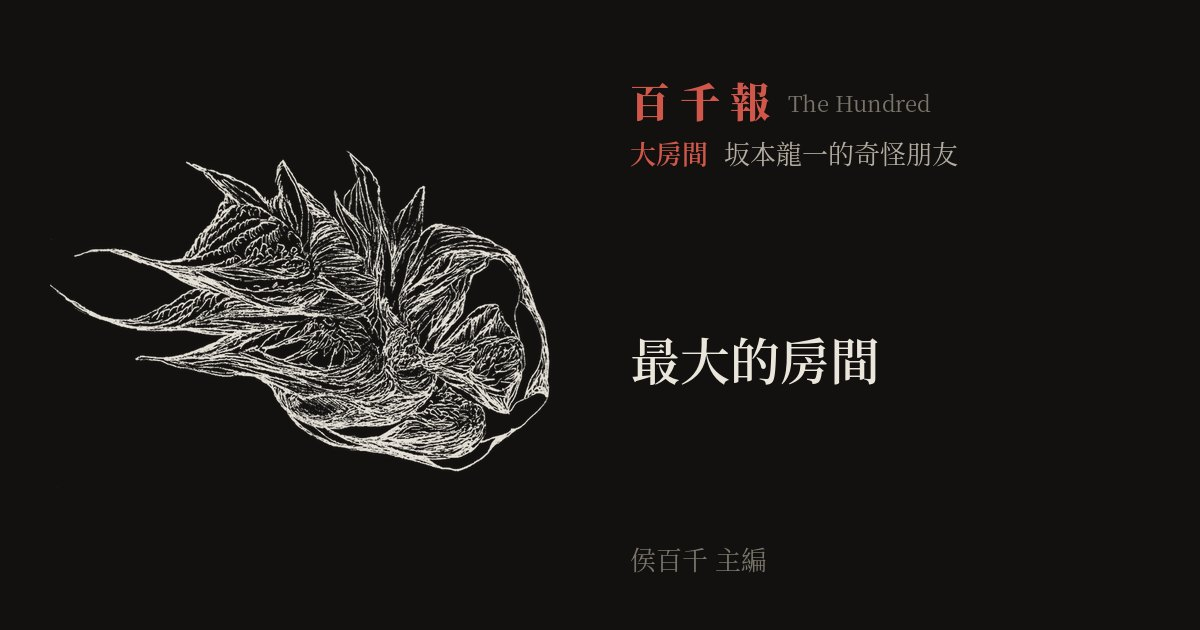
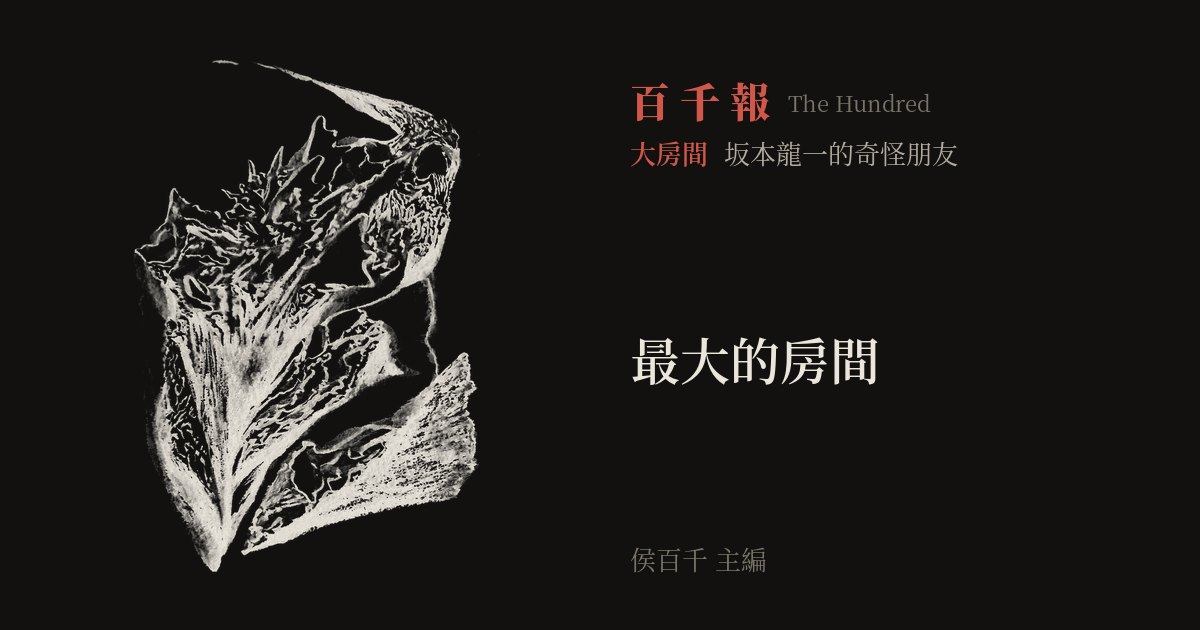
百千報特輯：坂本龍一的奇怪朋友 封面改用第 138 張
Claude-Session: https://claude.ai/code/session_01LjXt2qeMvP6nPZ6rKnaMSK

Changed region(s): [[0.0617, 0.1206, 0.4625, 0.9048], [0.2158, 0.0905, 0.2467, 0.1206], [0.0308, 0.4524, 0.0617, 0.4825]]

diff --git a/news/p/20261121-1251.html b/news/p/20261121-1251.html
@@ -103,7 +103,7 @@ ul.list{list-style:none;padding:0}ul.list li{border-bottom:1px solid var(--line)
 </script>
 </head>
 <body><div class="mode"><button type="button" id="modebtn" onclick="hundredMode('toggle')" aria-label="切換日夜">日</button></div><main>
-<a class="brand" href="../">百千報<span class="en">The Hundred</span></a><div class="art" role="img" aria-label="侯百千的畫" style="-webkit-mask-image:url(../art/150.webp);mask-image:url(../art/150.webp)"></div><div class="date">特輯・坂本龍一的奇怪朋友　2026年11月21日 星期六 12:51</div><h1>坂本龍一的奇怪朋友</h1><p class="open">我沒有看到任何一滴水落下，水面卻起了像下雨一樣的波紋。</p><div class="swipe"><a href="../#20261121-1251">用滑卡讀這一期，也可以寫信給侯百千 →</a></div><section><div class="tag"><b>水盤</b><span>開場</span></div><h2>好看，但不好聽</h2><div class="body"><p>正方形的大水盤，水面是平的。我沒有看到任何一滴水落下，水面卻起了像下雨一樣的波紋。</p><p>這件作品叫《水的樣態 1》，坂本龍一和高谷史郎 2013 年的作品。標牌上寫著「水滴裝置」，天花板上確實有噴頭，會照氣象衛星的降雨資料把水滴進盤裡；臺北這一版用的是包含臺北在內的降雨資料 <sup class="fn">1</sup>。但我看到的那一段沒有水滴，只有聲音和波紋。我當時的推測是：機器本身的聲音在震動，做出類似下雨的波紋。</p><p>後來查到，參與製作的聲音程式設計師濱哲史在訪談裡講過這一段：水盤底下有振動器，用很低的頻率讓水面起波 <sup class="fn">2</sup>。他還講了一件小事。他們試過把頻率調高，水面會出現像鏡子碎裂一樣的紋路。坂本看了也覺得有趣，但最後否決了，理由是那個聲音不夠好聽。</p><p>好看，但不好聽，所以不要。</p><p>用這句話回頭看整個展，會看到一條線。北美館這次的「坂本龍一｜觀音．聽時」，七組空間、九件作品，幾乎每一件都是坂本和別人一起做的：一位媒體藝術家、一位舞台與影像導演、一位做電子聲音的視覺藝術家、一位泰國電影導演，還有他自己的兒子 <sup class="fn">3</sup>。這些人負責讓聲音被看見，坂本負責讓它好聽。這篇就沿著這條分工線走。</p></div><div class="notes"><div class="nt">附註</div><ol><li>臺北市立美術館，「坂本龍一｜觀音．聽時」展覽新聞稿（2026-10-30）：《感測流》以館外天線收集都市電磁訊號；《水的樣態 1》臺北版使用含臺北的降雨衛星資料；《async——沉浸》18 公尺 LED、2023 年由高谷史郎於坂本過世後完成。https://www.tfam.museum/News/News_page.aspx?ddlLang=zh-tw&amp;id=2144</li><li>artscape，濱哲史訪談：振動子以低頻振動水盤；高頻可產生類似鏡面碎裂的水紋，因聲音不美遭坂本否決；早期曾試過從側面拍水滴波紋再生成聲音，因效果不佳放棄。https://artscape.jp/focus/10184627_1635.html ；噴頭與衛星降雨資料另見高谷史郎座談：https://icakyoto.art/en/realkyoto/talks/88424/</li><li>臺北市立美術館，「坂本龍一｜觀音．聽時」展覽新聞稿（2026-10-30）：https://www.tfam.museum/News/News_page.aspx?ddlLang=zh-tw&amp;id=2144。七組空間、九件作品，合作者為真鍋大度、高谷史郎、卡斯滕・尼古拉、阿比查邦・韋拉斯塔古、Zakkubalan（空音央＋Albert Tholen）。</li></ol></div><div class="meta"><a href="../a/20261121-1251-main.html">單篇網址</a><a class="chip" href="../t/%E6%B0%B4%E7%9B%A4.html">#水盤</a><a class="chip" href="../t/%E6%97%A5%E6%9C%AC.html">#日本</a><a class="chip" href="../t/%E5%AF%A6%E9%A9%97%E9%9F%B3%E6%A8%82.html">#實驗音樂</a><a class="chip" href="../t/%E7%92%B0%E5%A2%83%E9%9F%B3%E6%A8%82.html">#環境音樂</a></div></section><section><div class="tag"><b>天線</b><span>真鍋大度・尼古拉</span></div><h2>天線，和一條很長的螢幕</h2><div class="body"><p>早上十點我在排隊，隊伍不長，在隊伍裡就聽得到頻率的聲音。前面兩個人用中文在聊約會：為什麼動物園不是好的約會地點、早到和晚到怎麼拿捏。雖然跟主題無關，但也是蠻有趣的等待時間。</p><p>進門第一件是真鍋大度和坂本的《感測流 2026——不可見、不可聞（臺北版）》。真鍋是日本的媒體藝術家，專門把感測器接進表演和裝置。這件作品在美術館外面架天線，收集城市裡我們聽不見也看不見的電磁訊號，轉成長條 LED 上的圖形和喇叭裡的聲音 <sup class="fn">1</sup>。</p><p>我一開始的疑問很簡單：如果只是把頻率畫成圖、配上聲音，為什麼要這麼長的螢幕、這麼多顆喇叭？實際站著聽，某些段落確實有共振，像是要多顆喇叭才做得出來。</p><p>這裡有一個小細節。官方展覽手冊寫這件作品的音訊是「2ch」，兩個聲道 <sup class="fn">2</sup>。聲道和喇叭不是同一件事：兩個聲道的訊號可以分給很多顆喇叭播，就像同一首歌可以從整排音箱放出來。所以「兩聲道」和「我聽到很多喇叭在共振」並不矛盾，但共振到底是喇叭數量造成的，還是空間本身，我在現場分不出來，資料也沒寫。</p><p>接著是德國藝術家卡斯滕・尼古拉的兩部影像。他另一個名字 Alva Noto 在電子音樂圈更有名，和坂本合作過好幾張專輯。《光幻視》是白色的流體動畫，像煙霧；聲音是電子合成器的持續長音。我看了十分鐘，沉浸在煙霧和舒服的頻率裡，很享受。但要說有什麼更深的體悟，好像也沒有。頻率照固定的速度重複上升，沒有背景脈絡，可能不容易欣賞。</p><p>隔壁的《內／外》一直切換各種動物的臉部特寫，配上無限循環的鋼琴和偶爾出現的抒情旋律。感受得到它想傳達一些幽微的情感，但沒有用批判力去呈現。</p><p>背景其實有，只是不在現場。兩部片都來自尼古拉一個叫《20000》的電影計畫，配樂分別是坂本最後一張專輯《12》裡的兩首曲子，曲名就是作曲那天的日期 <sup class="fn">3</sup>。知道這一點，不會讓重複上升的頻率變得更有內容，但會知道你聽的是一個人晚年的日記式錄音。</p></div><div class="notes"><div class="nt">附註</div><ol><li>臺北市立美術館，「坂本龍一｜觀音．聽時」展覽新聞稿（2026-10-30）：《感測流》以館外天線收集都市電磁訊號；《水的樣態 1》臺北版使用含臺北的降雨衛星資料；《async——沉浸》18 公尺 LED、2023 年由高谷史郎於坂本過世後完成。https://www.tfam.museum/News/News_page.aspx?ddlLang=zh-tw&amp;id=2144</li><li>臺北市立美術館，「坂本龍一｜觀音．聽時」展覽手冊，《感測流》技術規格：雙聲道音訊／2ch audio。https://www.tfam.museum/File/files/02exhibition/260929_RyuichiSakamoto/RyuichiSakamoto_Guidebook.pdf</li><li>臺北市立美術館，「坂本龍一｜觀音．聽時」展覽新聞稿（2026-10-30）：https://www.tfam.museum/News/News_page.aspx?ddlLang=zh-tw&amp;id=2144。《光幻視》（PHOSPHENES，2024，7 分 23 秒）、《內／外》（ENDO EXO，2024，7 分 43 秒），源自尼古拉電影計畫《20000》，音樂為坂本專輯《12》的〈20210310〉、〈20220207〉。</li></ol></div><div class="meta"><a href="../a/20261121-1251-lesson.html">單篇網址</a><a class="chip" href="../t/%E5%A4%A9%E7%B7%9A.html">#天線</a><a class="chip" href="../t/%E6%97%A5%E6%9C%AC.html">#日本</a><a class="chip" href="../t/%E5%AF%A6%E9%A9%97%E9%9F%B3%E6%A8%82.html">#實驗音樂</a><a class="chip" href="../t/%E7%92%B0%E5%A2%83%E9%9F%B3%E6%A8%82.html">#環境音樂</a></div></section><section><div class="tag"><b>睡著</b><span>阿比查邦</span></div><h2>一個睡著，一個醒著</h2><div class="body"><p>再往裡走，牆上並排兩個畫面。右邊是不斷變換的風景，還有睡著的人；左邊是同一個熟睡的人。音樂是環境式的頻率，偶爾有男聲口白，講夢、現實和孤獨。</p><p>我當下的問題是：為什麼把兩件放在一起？是某種文學上的互文嗎？</p><p>答案比互文更直接。右邊是泰國導演阿比查邦和坂本 2017 年合作的《async——初光》，左邊是阿比查邦 2021 年的《沉睡者》。根據阿比查邦製作公司的紀錄，《沉睡者》本來就是為了搭配《async——初光》而做的 <sup class="fn">1</sup>。兩部片的標牌上，片長都是 11 分 03 秒 <sup class="fn">2</sup>。左邊那個睡著的人，是他的電影《記憶》裡主角入睡的那一刻，這一段沒有剪進正片 <sup class="fn">1</sup>；左邊的片是無聲的，聲音都在右邊。</p><p>那段男聲口白也查得到來源：朗誦的是俄國詩人阿爾謝尼・塔可夫斯基的詩，由英國歌手 David Sylvian 唸 <sup class="fn">1</sup>。畫面裡那些睡著的人，也不全是阿比查邦自己拍的：他寄了小攝影機給朋友，請他們拍自己和所愛的人睡覺的樣子 <sup class="fn">3</sup>。阿爾謝尼的兒子，是電影導演安德烈・塔可夫斯基。坂本做《async》這張專輯時，說過他想像的是一部塔可夫斯基電影的配樂 <sup class="fn">4</sup>。一部不存在的電影，請一位真的拍電影的人來補上畫面，畫面裡再放進那位導演父親的詩。朋友之間的接力，在這裡繞了好幾層。</p></div><div class="notes"><div class="nt">附註</div><ol><li>Kick the Machine（阿比查邦製作公司），Durmiente / async – first light：《Durmiente》（2021）為搭配《async – first light》（2017）而作（該頁未用「雙聯」一詞）；畫面取自《Memoria》未入正片的主角（Tilda Swinton 飾）入睡段落；詩作者阿爾謝尼・塔可夫斯基，David Sylvian 朗誦。https://www.kickthemachine.com/installations/durmiente-async/ 。《async——初光》以 Digital Harinezumi 拍攝，見展場標牌。</li><li>展場標牌（主編現場照片）：《沉睡者》《async——初光》皆為 11 分 03 秒、4:3、HD 1440×1080。</li><li>Kick the Machine，async – first light：阿比查邦寄小攝影機給朋友，請他們拍自己與所愛之人睡覺。https://www.kickthemachine.com/shorts/async-first-light/</li><li>坂本本人受訪時說，《async》做到一半，他決定把它當成一部只存在於他腦中的塔可夫斯基電影的配樂。Criterion，〈Sonic Memories: A Conversation with Ryuichi Sakamoto〉：https://www.criterion.com/current/posts/4625-sonic-memories-a-conversation-with-ryuichi-sakamoto</li></ol></div><div class="meta"><a href="../a/20261121-1251-craft.html">單篇網址</a><a class="chip" href="../t/%E7%9D%A1%E8%91%97.html">#睡著</a><a class="chip" href="../t/%E6%97%A5%E6%9C%AC.html">#日本</a><a class="chip" href="../t/%E5%AF%A6%E9%A9%97%E9%9F%B3%E6%A8%82.html">#實驗音樂</a><a class="chip" href="../t/%E7%92%B0%E5%A2%83%E9%9F%B3%E6%A8%82.html">#環境音樂</a><a class="chip" href="../t/%E9%9B%BB%E5%BD%B1.html">#電影</a></div></section><section><div class="tag"><b>小房間</b><span>Zakkubalan</span></div><h2>二十四個小房間</h2><div class="body"><p>下一間，牆上排著很多小螢幕，每一個像一個小房間，鏡頭對著房裡某個細節。裡面有煮茶壺的聲音、馬路的聲音、隔著一道門的工廠葉輪機和馬路、分不清是什麼容器的流水聲，還有各式各樣的開關聲。是城市。</p><p>一個房間擺滿各種樂器，很像音樂家的房間，裡面有電子音樂。一個小房間擺滿 CD。一個是盆栽，要很仔細聽，才聽得到很輕的腳步聲、蟲聲和風聲。一個是鋼琴房間，好像在放坂本的曲子。還有一個好像是普通的房間，我聽不到聲音。</p><p>這件是《async——容積》，2017 年，標牌寫著 24 聲道音訊和行動裝置。作者欄是「坂本龍一＋Zakkubalan」。Zakkubalan 是兩個人的組合：導演空音央和 Albert Tholen <sup class="fn">1</sup>。空音央是坂本的兒子。他們拍坂本在紐約的工作室、客廳和庭院，放進牆上 24 支 iPhone 和 iPad 裡播；每台裝置的聲音，會隨著觀眾靠近而變大 <sup class="fn">1</sup>。</p><p>他們原本受託拍的是坂本製作《async》的幕後影像。結果他們沒拍成一般的紀錄片，也決定不拍坂本本人，只拍他身邊的景物和他留下的痕跡，讓人感覺到他在，卻看不到他 <sup class="fn">2</sup>。難怪每一個螢幕都是房間，卻沒有人。</p><p>所以那個很像音樂家的房間，大概就是音樂家的房間。現場我沒有這些資訊，聽到的是一座城市。而這兩件事可以同時成立：那些聲音本來就不特別：茶壺、開關、隔壁的機器。2017 年坂本還在世，這件作品拍的是一個作曲家每天聽見的東西，還沒有變成紀念。</p></div><div class="notes"><div class="nt">附註</div><ol><li>VS.（大阪）展覽頁，async–volume：Zakkubalan 為空音央與 Albert Tholen；牆上 24 支 iPhone／iPad 播放坂本紐約工作室、客廳與庭院的影像；聲音隨觀者靠近而變大。https://vsvs.jp/en/exhibitions/sakamotocommon-osaka/</li><li>坂本龍一官方作品檔，async–volume：受託拍《async》創作幕後，未拍成傳統紀錄片，選擇不拍坂本本人，改拍他周遭的景物與留下的痕跡。https://www.sitesakamoto.com/artworks/16/ （該頁技術規格列 25 台裝置，與作品描述的 24 台差一台。展場標牌寫的是「24 聲道音訊、行動裝置」，24 是聲道數，沒寫裝置數。24 支 iPhone／iPad 是牆上的播放裝置，來源沒說用它們拍攝。）</li></ol></div><div class="meta"><a href="../a/20261121-1251-lit.html">單篇網址</a><a class="chip" href="../t/%E5%B0%8F%E6%88%BF%E9%96%93.html">#小房間</a><a class="chip" href="../t/%E6%97%A5%E6%9C%AC.html">#日本</a><a class="chip" href="../t/%E5%AF%A6%E9%A9%97%E9%9F%B3%E6%A8%82.html">#實驗音樂</a><a class="chip" href="../t/%E7%92%B0%E5%A2%83%E9%9F%B3%E6%A8%82.html">#環境音樂</a></div></section><section><div class="tag"><b>大房間</b><span>高谷史郎</span></div><h2>最大的房間</h2><div class="body"><p>最大的房間裡是一條非常長的大螢幕，特寫著某種機械生鏽的細節，有可能是樂器，從左側逐漸細化成線，變成光。音樂很有坂本的感覺，有鋼琴，或某種東方的弦樂，畫面不斷重複特寫各種物品。</p><p>這是坂本和高谷史郎的《async——沉浸》。高谷是日本藝術團體 Dumb Type 的創始成員，至少從 2007 年的《LIFE——流動、無形、無聲……》起就和坂本一起做裝置，這次展覽有三件作品出自兩人之手。影像取自坂本紐約工作室裡的樂器、書、庭院，在 18 公尺的 LED 上被掃描般的光束分解、延展 <sup class="fn">1</sup>。作品在 2023 年坂本過世後，由高谷完成 <sup class="fn">1</sup>。</p><p>我的疑問是兩個：用光線重新編織物品的影像，和音樂到底有什麼關係？如果沒有這麼大的螢幕，這件作品是不是就沒有表現力，也不成立了？</p><p>高谷自己講過第一題。他說，除了少數有朗讀文字的段落，音樂和影像是刻意不同步的，各走各的時間 <sup class="fn">2</sup>。所以「看不出關係」可能正是設計：它不打算讓畫面去解釋音樂。但刻意不同步，不等於這樣做就有說服力，這是兩回事。</p><p>第二題有一個查得到的事實可以參考。這件作品 2023 年在京都首展時，螢幕是 26.4 公尺，配 35 個揚聲器 <sup class="fn">3</sup>。到臺北，螢幕變成 18 公尺。也就是說，尺寸本來就隨場地在調。它在京都是 26 公尺，在臺北是 18 公尺，那在 5 公尺的螢幕上還成不成立？沒有人回答過。</p></div><div class="notes"><div class="nt">附註</div><ol><li>臺北市立美術館，「坂本龍一｜觀音．聽時」展覽新聞稿（2026-10-30）：《感測流》以館外天線收集都市電磁訊號；《水的樣態 1》臺北版使用含臺北的降雨衛星資料；《async——沉浸》18 公尺 LED、2023 年由高谷史郎於坂本過世後完成。https://www.tfam.museum/News/News_page.aspx?ddlLang=zh-tw&amp;id=2144</li><li>高谷史郎，AMBIENT KYOTO 2026 自述：除涉及朗讀文字的少數段落外，影像與音樂刻意非同步。https://ambientkyoto.com/2026/en/comments-by-shiro-takatani/</li><li>坂本龍一官方作品檔，async–immersion：京都 2023 原展 26.4 公尺 LED、35 個揚聲器（35 speakers）。https://www.sitesakamoto.com/artworks/23/</li></ol></div><div class="meta"><a href="../a/20261121-1251-far.html">單篇網址</a><a class="chip" href="../t/%E5%A4%A7%E6%88%BF%E9%96%93.html">#大房間</a><a class="chip" href="../t/%E6%97%A5%E6%9C%AC.html">#日本</a><a class="chip" href="../t/%E5%AF%A6%E9%A9%97%E9%9F%B3%E6%A8%82.html">#實驗音樂</a><a class="chip" href="../t/%E7%92%B0%E5%A2%83%E9%9F%B3%E6%A8%82.html">#環境音樂</a></div></section><section><div class="tag"><b>不好聽</b><span>LIFE・結尾</span></div><h2>誰來說不好聽</h2><div class="body"><p>隔壁的《LIFE——流動、無形、無聲……》（2007）也是兩人合作。頭頂懸著巨大的水箱，文字和顏色穿過水和霧投在地板上，像站在水族館底下看水波和頻率變化。畫面裡會出現英文單字。我對這個選擇有不同看法：英文單字降低了美感、破壞意境，也沒有好好傳達作者的意圖；如果只是為了增加作品的豐富度，大可不必。這當然只是個人看法。</p><p>展覽最後一區是散落的手稿、照片、桌子和玻璃櫃，像某個藝術家離世後沒整理的房間。照片裡看得到印著「LIFE」的卡片、裝訂文件和構想圖，牆上排著日文、英文、法文的文字和影像截圖。北美館說，這裡是坂本 1999 年歌劇《LIFE》的筆記、樂譜、手稿、錄音帶和攝影師的紀錄照片，多數第一次公開 <sup class="fn">1</sup>。但現場我不清楚這些東西的年份和來龍去脈，它們對我就只起了一點氛圍的作用。後來看照片才知道，牆上那些日文、英文、法文，是這部歌劇用到的文本：有作家魯西迪的文字、舞蹈家碧娜・鮑許的訪談，還有哲學家德希達自己寫、自己朗讀的作品 <sup class="fn">2</sup>。</p><p>把我在現場留下的紀錄攤開來看：寫下「不一樣的體驗」的，是平的水面起了波紋，讓人想到頻率怎麼改變東西的樣子；記下最多聲音細節的，是那排要湊近才聽得清楚的小螢幕。提出疑問的地方，則是畫面自己變大的地方：18 公尺的光、投在地上的英文字、沒有說明的手稿。</p><p>那個被否決的高頻水紋，是這個展最好用的一把尺。坂本的朋友們很會做讓人看見的東西，而至少在那個水盤上，有一個人站在旁邊說過：這個好看，但不好聽，不要。2023 年以後，這個人不在了。展覽裡有幾件作品是在那之後完成或重新製作的。它們是不是還照著那把尺，展場沒有說，我也不知道。</p></div><div class="notes"><div class="nt">附註</div><ol><li>臺北市立美術館，歌劇《LIFE》文獻說明。https://tfam.gov.taipei/News_Content.aspx?n=F56D17A31A63367B&amp;s=114C61E5C6F3D5A8&amp;sms=78D644F2755ACCAA</li><li>展場文獻區牆面（主編現場照片）：魯西迪〈入れ替わった男〉日譯、碧娜・鮑許訪談（淺田彰訪問，© 1999 Pina Bausch, KAB Inc.／KAB America Inc.）、德希達〈Feu la cendre〉（written and recited by Jacques Derrida）。另有一段獻給班雅明的英文詩，作者名未入鏡，正文不寫。</li></ol></div><div class="meta"><a href="../a/20261121-1251-news.html">單篇網址</a><a class="chip" href="../t/%E4%B8%8D%E5%A5%BD%E8%81%BD.html">#不好聽</a><a class="chip" href="../t/%E6%97%A5%E6%9C%AC.html">#日本</a><a class="chip" href="../t/%E5%AF%A6%E9%A9%97%E9%9F%B3%E6%A8%82.html">#實驗音樂</a><a class="chip" href="../t/%E7%92%B0%E5%A2%83%E9%9F%B3%E6%A8%82.html">#環境音樂</a><a class="chip" href="../t/%E8%97%9D%E8%A1%93%E5%8F%B2.html">#藝術史</a></div></section><section class="intro"><div class="tag"><b>楔子</b><span>關於百千報</span></div><div class="body"><p>百千報是一個小小的嘗試：用一份報紙，換掉醒來和睡前滑手機的那段時間。</p><p>社群媒體很懂我們喜歡什麼，一滑就停不下來，看到的多半是本來就同意的東西。我們也一樣。</p><p>所以百千報挑一些你可能沒聽過、不一定同意，或從沒想過的東西，放在一起讀。它可能挑錯，也可能寫錯，歡迎寫信來指正。</p><p>每期固定有：</p><ul><li><b>新聞</b>：一件值得知道的事。問題照實寫，也寫誰在回應、有沒有用。</li><li><b>反方</b>：挑一個常見的信念，整理反對它的理由，也講支持的一方怎麼回應。</li><li><b>意識科學</b>：一堂連載的課，問意識是什麼。</li><li><b>刺青</b>：傳統、工具、方法與身體，每期一個具體的細節。</li><li><b>音樂</b>：以電子音樂為主，每期一個具體的細節。</li><li><b>百千</b>：侯百千自己寫的一篇作品。</li></ul><p>另外三欄輪流，每期一篇：<b>文學</b>、<b>興趣的藝術</b>（畫、占卜與身心靈、電影）、<b>遠方</b>（很遠的地方發生的真事）。</p><p>每天清晨出一期，每一期都有結尾。希望讀完的時候，眼界比讀之前大一點點。</p></div></section><section class="letter"><h3>寫信給侯百千</h3><form class="msg" action="https://formspree.io/f/mreyadad" method="POST"><input type="hidden" name="_subject" value="百千報讀者來信（特輯・坂本龍一的奇怪朋友）"><input type="hidden" name="issue" value="特輯・坂本龍一的奇怪朋友 20261121-1251"><input type="text" name="name" placeholder="你的名字" required><input type="email" name="email" placeholder="Email（他會回信到這裡）" required><textarea name="message" rows="4" placeholder="讀完想說的話、反駁、題目建議都可以" required></textarea><div class="row"><span class="hintx"></span><button type="submit">送出</button></div></form></section><nav class="pn"><span></span><a href="../archive.html">所有期數</a><span></span></nav><script>
+<a class="brand" href="../">百千報<span class="en">The Hundred</span></a><div class="art" role="img" aria-label="侯百千的畫" style="-webkit-mask-image:url(../art/138.webp);mask-image:url(../art/138.webp)"></div><div class="date">特輯・坂本龍一的奇怪朋友　2026年11月21日 星期六 12:51</div><h1>坂本龍一的奇怪朋友</h1><p class="open">我沒有看到任何一滴水落下，水面卻起了像下雨一樣的波紋。</p><div class="swipe"><a href="../#20261121-1251">用滑卡讀這一期，也可以寫信給侯百千 →</a></div><section><div class="tag"><b>水盤</b><span>開場</span></div><h2>好看，但不好聽</h2><div class="body"><p>正方形的大水盤，水面是平的。我沒有看到任何一滴水落下，水面卻起了像下雨一樣的波紋。</p><p>這件作品叫《水的樣態 1》，坂本龍一和高谷史郎 2013 年的作品。標牌上寫著「水滴裝置」，天花板上確實有噴頭，會照氣象衛星的降雨資料把水滴進盤裡；臺北這一版用的是包含臺北在內的降雨資料 <sup class="fn">1</sup>。但我看到的那一段沒有水滴，只有聲音和波紋。我當時的推測是：機器本身的聲音在震動，做出類似下雨的波紋。</p><p>後來查到，參與製作的聲音程式設計師濱哲史在訪談裡講過這一段：水盤底下有振動器，用很低的頻率讓水面起波 <sup class="fn">2</sup>。他還講了一件小事。他們試過把頻率調高，水面會出現像鏡子碎裂一樣的紋路。坂本看了也覺得有趣，但最後否決了，理由是那個聲音不夠好聽。</p><p>好看，但不好聽，所以不要。</p><p>用這句話回頭看整個展，會看到一條線。北美館這次的「坂本龍一｜觀音．聽時」，七組空間、九件作品，幾乎每一件都是坂本和別人一起做的：一位媒體藝術家、一位舞台與影像導演、一位做電子聲音的視覺藝術家、一位泰國電影導演，還有他自己的兒子 <sup class="fn">3</sup>。這些人負責讓聲音被看見，坂本負責讓它好聽。這篇就沿著這條分工線走。</p></div><div class="notes"><div class="nt">附註</div><ol><li>臺北市立美術館，「坂本龍一｜觀音．聽時」展覽新聞稿（2026-10-30）：《感測流》以館外天線收集都市電磁訊號；《水的樣態 1》臺北版使用含臺北的降雨衛星資料；《async——沉浸》18 公尺 LED、2023 年由高谷史郎於坂本過世後完成。https://www.tfam.museum/News/News_page.aspx?ddlLang=zh-tw&amp;id=2144</li><li>artscape，濱哲史訪談：振動子以低頻振動水盤；高頻可產生類似鏡面碎裂的水紋，因聲音不美遭坂本否決；早期曾試過從側面拍水滴波紋再生成聲音，因效果不佳放棄。https://artscape.jp/focus/10184627_1635.html ；噴頭與衛星降雨資料另見高谷史郎座談：https://icakyoto.art/en/realkyoto/talks/88424/</li><li>臺北市立美術館，「坂本龍一｜觀音．聽時」展覽新聞稿（2026-10-30）：https://www.tfam.museum/News/News_page.aspx?ddlLang=zh-tw&amp;id=2144。七組空間、九件作品，合作者為真鍋大度、高谷史郎、卡斯滕・尼古拉、阿比查邦・韋拉斯塔古、Zakkubalan（空音央＋Albert Tholen）。</li></ol></div><div class="meta"><a href="../a/20261121-1251-main.html">單篇網址</a><a class="chip" href="../t/%E6%B0%B4%E7%9B%A4.html">#水盤</a><a class="chip" href="../t/%E6%97%A5%E6%9C%AC.html">#日本</a><a class="chip" href="../t/%E5%AF%A6%E9%A9%97%E9%9F%B3%E6%A8%82.html">#實驗音樂</a><a class="chip" href="../t/%E7%92%B0%E5%A2%83%E9%9F%B3%E6%A8%82.html">#環境音樂</a></div></section><section><div class="tag"><b>天線</b><span>真鍋大度・尼古拉</span></div><h2>天線，和一條很長的螢幕</h2><div class="body"><p>早上十點我在排隊，隊伍不長，在隊伍裡就聽得到頻率的聲音。前面兩個人用中文在聊約會：為什麼動物園不是好的約會地點、早到和晚到怎麼拿捏。雖然跟主題無關，但也是蠻有趣的等待時間。</p><p>進門第一件是真鍋大度和坂本的《感測流 2026——不可見、不可聞（臺北版）》。真鍋是日本的媒體藝術家，專門把感測器接進表演和裝置。這件作品在美術館外面架天線，收集城市裡我們聽不見也看不見的電磁訊號，轉成長條 LED 上的圖形和喇叭裡的聲音 <sup class="fn">1</sup>。</p><p>我一開始的疑問很簡單：如果只是把頻率畫成圖、配上聲音，為什麼要這麼長的螢幕、這麼多顆喇叭？實際站著聽，某些段落確實有共振，像是要多顆喇叭才做得出來。</p><p>這裡有一個小細節。官方展覽手冊寫這件作品的音訊是「2ch」，兩個聲道 <sup class="fn">2</sup>。聲道和喇叭不是同一件事：兩個聲道的訊號可以分給很多顆喇叭播，就像同一首歌可以從整排音箱放出來。所以「兩聲道」和「我聽到很多喇叭在共振」並不矛盾，但共振到底是喇叭數量造成的，還是空間本身，我在現場分不出來，資料也沒寫。</p><p>接著是德國藝術家卡斯滕・尼古拉的兩部影像。他另一個名字 Alva Noto 在電子音樂圈更有名，和坂本合作過好幾張專輯。《光幻視》是白色的流體動畫，像煙霧；聲音是電子合成器的持續長音。我看了十分鐘，沉浸在煙霧和舒服的頻率裡，很享受。但要說有什麼更深的體悟，好像也沒有。頻率照固定的速度重複上升，沒有背景脈絡，可能不容易欣賞。</p><p>隔壁的《內／外》一直切換各種動物的臉部特寫，配上無限循環的鋼琴和偶爾出現的抒情旋律。感受得到它想傳達一些幽微的情感，但沒有用批判力去呈現。</p><p>背景其實有，只是不在現場。兩部片都來自尼古拉一個叫《20000》的電影計畫，配樂分別是坂本最後一張專輯《12》裡的兩首曲子，曲名就是作曲那天的日期 <sup class="fn">3</sup>。知道這一點，不會讓重複上升的頻率變得更有內容，但會知道你聽的是一個人晚年的日記式錄音。</p></div><div class="notes"><div class="nt">附註</div><ol><li>臺北市立美術館，「坂本龍一｜觀音．聽時」展覽新聞稿（2026-10-30）：《感測流》以館外天線收集都市電磁訊號；《水的樣態 1》臺北版使用含臺北的降雨衛星資料；《async——沉浸》18 公尺 LED、2023 年由高谷史郎於坂本過世後完成。https://www.tfam.museum/News/News_page.aspx?ddlLang=zh-tw&amp;id=2144</li><li>臺北市立美術館，「坂本龍一｜觀音．聽時」展覽手冊，《感測流》技術規格：雙聲道音訊／2ch audio。https://www.tfam.museum/File/files/02exhibition/260929_RyuichiSakamoto/RyuichiSakamoto_Guidebook.pdf</li><li>臺北市立美術館，「坂本龍一｜觀音．聽時」展覽新聞稿（2026-10-30）：https://www.tfam.museum/News/News_page.aspx?ddlLang=zh-tw&amp;id=2144。《光幻視》（PHOSPHENES，2024，7 分 23 秒）、《內／外》（ENDO EXO，2024，7 分 43 秒），源自尼古拉電影計畫《20000》，音樂為坂本專輯《12》的〈20210310〉、〈20220207〉。</li></ol></div><div class="meta"><a href="../a/20261121-1251-lesson.html">單篇網址</a><a class="chip" href="../t/%E5%A4%A9%E7%B7%9A.html">#天線</a><a class="chip" href="../t/%E6%97%A5%E6%9C%AC.html">#日本</a><a class="chip" href="../t/%E5%AF%A6%E9%A9%97%E9%9F%B3%E6%A8%82.html">#實驗音樂</a><a class="chip" href="../t/%E7%92%B0%E5%A2%83%E9%9F%B3%E6%A8%82.html">#環境音樂</a></div></section><section><div class="tag"><b>睡著</b><span>阿比查邦</span></div><h2>一個睡著，一個醒著</h2><div class="body"><p>再往裡走，牆上並排兩個畫面。右邊是不斷變換的風景，還有睡著的人；左邊是同一個熟睡的人。音樂是環境式的頻率，偶爾有男聲口白，講夢、現實和孤獨。</p><p>我當下的問題是：為什麼把兩件放在一起？是某種文學上的互文嗎？</p><p>答案比互文更直接。右邊是泰國導演阿比查邦和坂本 2017 年合作的《async——初光》，左邊是阿比查邦 2021 年的《沉睡者》。根據阿比查邦製作公司的紀錄，《沉睡者》本來就是為了搭配《async——初光》而做的 <sup class="fn">1</sup>。兩部片的標牌上，片長都是 11 分 03 秒 <sup class="fn">2</sup>。左邊那個睡著的人，是他的電影《記憶》裡主角入睡的那一刻，這一段沒有剪進正片 <sup class="fn">1</sup>；左邊的片是無聲的，聲音都在右邊。</p><p>那段男聲口白也查得到來源：朗誦的是俄國詩人阿爾謝尼・塔可夫斯基的詩，由英國歌手 David Sylvian 唸 <sup class="fn">1</sup>。畫面裡那些睡著的人，也不全是阿比查邦自己拍的：他寄了小攝影機給朋友，請他們拍自己和所愛的人睡覺的樣子 <sup class="fn">3</sup>。阿爾謝尼的兒子，是電影導演安德烈・塔可夫斯基。坂本做《async》這張專輯時，說過他想像的是一部塔可夫斯基電影的配樂 <sup class="fn">4</sup>。一部不存在的電影，請一位真的拍電影的人來補上畫面，畫面裡再放進那位導演父親的詩。朋友之間的接力，在這裡繞了好幾層。</p></div><div class="notes"><div class="nt">附註</div><ol><li>Kick the Machine（阿比查邦製作公司），Durmiente / async – first light：《Durmiente》（2021）為搭配《async – first light》（2017）而作（該頁未用「雙聯」一詞）；畫面取自《Memoria》未入正片的主角（Tilda Swinton 飾）入睡段落；詩作者阿爾謝尼・塔可夫斯基，David Sylvian 朗誦。https://www.kickthemachine.com/installations/durmiente-async/ 。《async——初光》以 Digital Harinezumi 拍攝，見展場標牌。</li><li>展場標牌（主編現場照片）：《沉睡者》《async——初光》皆為 11 分 03 秒、4:3、HD 1440×1080。</li><li>Kick the Machine，async – first light：阿比查邦寄小攝影機給朋友，請他們拍自己與所愛之人睡覺。https://www.kickthemachine.com/shorts/async-first-light/</li><li>坂本本人受訪時說，《async》做到一半，他決定把它當成一部只存在於他腦中的塔可夫斯基電影的配樂。Criterion，〈Sonic Memories: A Conversation with Ryuichi Sakamoto〉：https://www.criterion.com/current/posts/4625-sonic-memories-a-conversation-with-ryuichi-sakamoto</li></ol></div><div class="meta"><a href="../a/20261121-1251-craft.html">單篇網址</a><a class="chip" href="../t/%E7%9D%A1%E8%91%97.html">#睡著</a><a class="chip" href="../t/%E6%97%A5%E6%9C%AC.html">#日本</a><a class="chip" href="../t/%E5%AF%A6%E9%A9%97%E9%9F%B3%E6%A8%82.html">#實驗音樂</a><a class="chip" href="../t/%E7%92%B0%E5%A2%83%E9%9F%B3%E6%A8%82.html">#環境音樂</a><a class="chip" href="../t/%E9%9B%BB%E5%BD%B1.html">#電影</a></div></section><section><div class="tag"><b>小房間</b><span>Zakkubalan</span></div><h2>二十四個小房間</h2><div class="body"><p>下一間，牆上排著很多小螢幕，每一個像一個小房間，鏡頭對著房裡某個細節。裡面有煮茶壺的聲音、馬路的聲音、隔著一道門的工廠葉輪機和馬路、分不清是什麼容器的流水聲，還有各式各樣的開關聲。是城市。</p><p>一個房間擺滿各種樂器，很像音樂家的房間，裡面有電子音樂。一個小房間擺滿 CD。一個是盆栽，要很仔細聽，才聽得到很輕的腳步聲、蟲聲和風聲。一個是鋼琴房間，好像在放坂本的曲子。還有一個好像是普通的房間，我聽不到聲音。</p><p>這件是《async——容積》，2017 年，標牌寫著 24 聲道音訊和行動裝置。作者欄是「坂本龍一＋Zakkubalan」。Zakkubalan 是兩個人的組合：導演空音央和 Albert Tholen <sup class="fn">1</sup>。空音央是坂本的兒子。他們拍坂本在紐約的工作室、客廳和庭院，放進牆上 24 支 iPhone 和 iPad 裡播；每台裝置的聲音，會隨著觀眾靠近而變大 <sup class="fn">1</sup>。</p><p>他們原本受託拍的是坂本製作《async》的幕後影像。結果他們沒拍成一般的紀錄片，也決定不拍坂本本人，只拍他身邊的景物和他留下的痕跡，讓人感覺到他在，卻看不到他 <sup class="fn">2</sup>。難怪每一個螢幕都是房間，卻沒有人。</p><p>所以那個很像音樂家的房間，大概就是音樂家的房間。現場我沒有這些資訊，聽到的是一座城市。而這兩件事可以同時成立：那些聲音本來就不特別：茶壺、開關、隔壁的機器。2017 年坂本還在世，這件作品拍的是一個作曲家每天聽見的東西，還沒有變成紀念。</p></div><div class="notes"><div class="nt">附註</div><ol><li>VS.（大阪）展覽頁，async–volume：Zakkubalan 為空音央與 Albert Tholen；牆上 24 支 iPhone／iPad 播放坂本紐約工作室、客廳與庭院的影像；聲音隨觀者靠近而變大。https://vsvs.jp/en/exhibitions/sakamotocommon-osaka/</li><li>坂本龍一官方作品檔，async–volume：受託拍《async》創作幕後，未拍成傳統紀錄片，選擇不拍坂本本人，改拍他周遭的景物與留下的痕跡。https://www.sitesakamoto.com/artworks/16/ （該頁技術規格列 25 台裝置，與作品描述的 24 台差一台。展場標牌寫的是「24 聲道音訊、行動裝置」，24 是聲道數，沒寫裝置數。24 支 iPhone／iPad 是牆上的播放裝置，來源沒說用它們拍攝。）</li></ol></div><div class="meta"><a href="../a/20261121-1251-lit.html">單篇網址</a><a class="chip" href="../t/%E5%B0%8F%E6%88%BF%E9%96%93.html">#小房間</a><a class="chip" href="../t/%E6%97%A5%E6%9C%AC.html">#日本</a><a class="chip" href="../t/%E5%AF%A6%E9%A9%97%E9%9F%B3%E6%A8%82.html">#實驗音樂</a><a class="chip" href="../t/%E7%92%B0%E5%A2%83%E9%9F%B3%E6%A8%82.html">#環境音樂</a></div></section><section><div class="tag"><b>大房間</b><span>高谷史郎</span></div><h2>最大的房間</h2><div class="body"><p>最大的房間裡是一條非常長的大螢幕，特寫著某種機械生鏽的細節，有可能是樂器，從左側逐漸細化成線，變成光。音樂很有坂本的感覺，有鋼琴，或某種東方的弦樂，畫面不斷重複特寫各種物品。</p><p>這是坂本和高谷史郎的《async——沉浸》。高谷是日本藝術團體 Dumb Type 的創始成員，至少從 2007 年的《LIFE——流動、無形、無聲……》起就和坂本一起做裝置，這次展覽有三件作品出自兩人之手。影像取自坂本紐約工作室裡的樂器、書、庭院，在 18 公尺的 LED 上被掃描般的光束分解、延展 <sup class="fn">1</sup>。作品在 2023 年坂本過世後，由高谷完成 <sup class="fn">1</sup>。</p><p>我的疑問是兩個：用光線重新編織物品的影像，和音樂到底有什麼關係？如果沒有這麼大的螢幕，這件作品是不是就沒有表現力，也不成立了？</p><p>高谷自己講過第一題。他說，除了少數有朗讀文字的段落，音樂和影像是刻意不同步的，各走各的時間 <sup class="fn">2</sup>。所以「看不出關係」可能正是設計：它不打算讓畫面去解釋音樂。但刻意不同步，不等於這樣做就有說服力，這是兩回事。</p><p>第二題有一個查得到的事實可以參考。這件作品 2023 年在京都首展時，螢幕是 26.4 公尺，配 35 個揚聲器 <sup class="fn">3</sup>。到臺北，螢幕變成 18 公尺。也就是說，尺寸本來就隨場地在調。它在京都是 26 公尺，在臺北是 18 公尺，那在 5 公尺的螢幕上還成不成立？沒有人回答過。</p></div><div class="notes"><div class="nt">附註</div><ol><li>臺北市立美術館，「坂本龍一｜觀音．聽時」展覽新聞稿（2026-10-30）：《感測流》以館外天線收集都市電磁訊號；《水的樣態 1》臺北版使用含臺北的降雨衛星資料；《async——沉浸》18 公尺 LED、2023 年由高谷史郎於坂本過世後完成。https://www.tfam.museum/News/News_page.aspx?ddlLang=zh-tw&amp;id=2144</li><li>高谷史郎，AMBIENT KYOTO 2026 自述：除涉及朗讀文字的少數段落外，影像與音樂刻意非同步。https://ambientkyoto.com/2026/en/comments-by-shiro-takatani/</li><li>坂本龍一官方作品檔，async–immersion：京都 2023 原展 26.4 公尺 LED、35 個揚聲器（35 speakers）。https://www.sitesakamoto.com/artworks/23/</li></ol></div><div class="meta"><a href="../a/20261121-1251-far.html">單篇網址</a><a class="chip" href="../t/%E5%A4%A7%E6%88%BF%E9%96%93.html">#大房間</a><a class="chip" href="../t/%E6%97%A5%E6%9C%AC.html">#日本</a><a class="chip" href="../t/%E5%AF%A6%E9%A9%97%E9%9F%B3%E6%A8%82.html">#實驗音樂</a><a class="chip" href="../t/%E7%92%B0%E5%A2%83%E9%9F%B3%E6%A8%82.html">#環境音樂</a></div></section><section><div class="tag"><b>不好聽</b><span>LIFE・結尾</span></div><h2>誰來說不好聽</h2><div class="body"><p>隔壁的《LIFE——流動、無形、無聲……》（2007）也是兩人合作。頭頂懸著巨大的水箱，文字和顏色穿過水和霧投在地板上，像站在水族館底下看水波和頻率變化。畫面裡會出現英文單字。我對這個選擇有不同看法：英文單字降低了美感、破壞意境，也沒有好好傳達作者的意圖；如果只是為了增加作品的豐富度，大可不必。這當然只是個人看法。</p><p>展覽最後一區是散落的手稿、照片、桌子和玻璃櫃，像某個藝術家離世後沒整理的房間。照片裡看得到印著「LIFE」的卡片、裝訂文件和構想圖，牆上排著日文、英文、法文的文字和影像截圖。北美館說，這裡是坂本 1999 年歌劇《LIFE》的筆記、樂譜、手稿、錄音帶和攝影師的紀錄照片，多數第一次公開 <sup class="fn">1</sup>。但現場我不清楚這些東西的年份和來龍去脈，它們對我就只起了一點氛圍的作用。後來看照片才知道，牆上那些日文、英文、法文，是這部歌劇用到的文本：有作家魯西迪的文字、舞蹈家碧娜・鮑許的訪談，還有哲學家德希達自己寫、自己朗讀的作品 <sup class="fn">2</sup>。</p><p>把我在現場留下的紀錄攤開來看：寫下「不一樣的體驗」的，是平的水面起了波紋，讓人想到頻率怎麼改變東西的樣子；記下最多聲音細節的，是那排要湊近才聽得清楚的小螢幕。提出疑問的地方，則是畫面自己變大的地方：18 公尺的光、投在地上的英文字、沒有說明的手稿。</p><p>那個被否決的高頻水紋，是這個展最好用的一把尺。坂本的朋友們很會做讓人看見的東西，而至少在那個水盤上，有一個人站在旁邊說過：這個好看，但不好聽，不要。2023 年以後，這個人不在了。展覽裡有幾件作品是在那之後完成或重新製作的。它們是不是還照著那把尺，展場沒有說，我也不知道。</p></div><div class="notes"><div class="nt">附註</div><ol><li>臺北市立美術館，歌劇《LIFE》文獻說明。https://tfam.gov.taipei/News_Content.aspx?n=F56D17A31A63367B&amp;s=114C61E5C6F3D5A8&amp;sms=78D644F2755ACCAA</li><li>展場文獻區牆面（主編現場照片）：魯西迪〈入れ替わった男〉日譯、碧娜・鮑許訪談（淺田彰訪問，© 1999 Pina Bausch, KAB Inc.／KAB America Inc.）、德希達〈Feu la cendre〉（written and recited by Jacques Derrida）。另有一段獻給班雅明的英文詩，作者名未入鏡，正文不寫。</li></ol></div><div class="meta"><a href="../a/20261121-1251-news.html">單篇網址</a><a class="chip" href="../t/%E4%B8%8D%E5%A5%BD%E8%81%BD.html">#不好聽</a><a class="chip" href="../t/%E6%97%A5%E6%9C%AC.html">#日本</a><a class="chip" href="../t/%E5%AF%A6%E9%A9%97%E9%9F%B3%E6%A8%82.html">#實驗音樂</a><a class="chip" href="../t/%E7%92%B0%E5%A2%83%E9%9F%B3%E6%A8%82.html">#環境音樂</a><a class="chip" href="../t/%E8%97%9D%E8%A1%93%E5%8F%B2.html">#藝術史</a></div></section><section class="intro"><div class="tag"><b>楔子</b><span>關於百千報</span></div><div class="body"><p>百千報是一個小小的嘗試：用一份報紙，換掉醒來和睡前滑手機的那段時間。</p><p>社群媒體很懂我們喜歡什麼，一滑就停不下來，看到的多半是本來就同意的東西。我們也一樣。</p><p>所以百千報挑一些你可能沒聽過、不一定同意，或從沒想過的東西，放在一起讀。它可能挑錯，也可能寫錯，歡迎寫信來指正。</p><p>每期固定有：</p><ul><li><b>新聞</b>：一件值得知道的事。問題照實寫，也寫誰在回應、有沒有用。</li><li><b>反方</b>：挑一個常見的信念，整理反對它的理由，也講支持的一方怎麼回應。</li><li><b>意識科學</b>：一堂連載的課，問意識是什麼。</li><li><b>刺青</b>：傳統、工具、方法與身體，每期一個具體的細節。</li><li><b>音樂</b>：以電子音樂為主，每期一個具體的細節。</li><li><b>百千</b>：侯百千自己寫的一篇作品。</li></ul><p>另外三欄輪流，每期一篇：<b>文學</b>、<b>興趣的藝術</b>（畫、占卜與身心靈、電影）、<b>遠方</b>（很遠的地方發生的真事）。</p><p>每天清晨出一期，每一期都有結尾。希望讀完的時候，眼界比讀之前大一點點。</p></div></section><section class="letter"><h3>寫信給侯百千</h3><form class="msg" action="https://formspree.io/f/mreyadad" method="POST"><input type="hidden" name="_subject" value="百千報讀者來信（特輯・坂本龍一的奇怪朋友）"><input type="hidden" name="issue" value="特輯・坂本龍一的奇怪朋友 20261121-1251"><input type="text" name="name" placeholder="你的名字" required><input type="email" name="email" placeholder="Email（他會回信到這裡）" required><textarea name="message" rows="4" placeholder="讀完想說的話、反駁、題目建議都可以" required></textarea><div class="row"><span class="hintx"></span><button type="submit">送出</button></div></form></section><nav class="pn"><span></span><a href="../archive.html">所有期數</a><span></span></nav><script>
 document.querySelectorAll('form.msg').forEach(f=>f.addEventListener('submit',async e=>{
   e.preventDefault();const h=f.querySelector('.hintx');h.textContent='送出中⋯';
   try{const r=await fetch(f.action,{method:'POST',body:new FormData(f),headers:{'Accept':'application/json'}});
